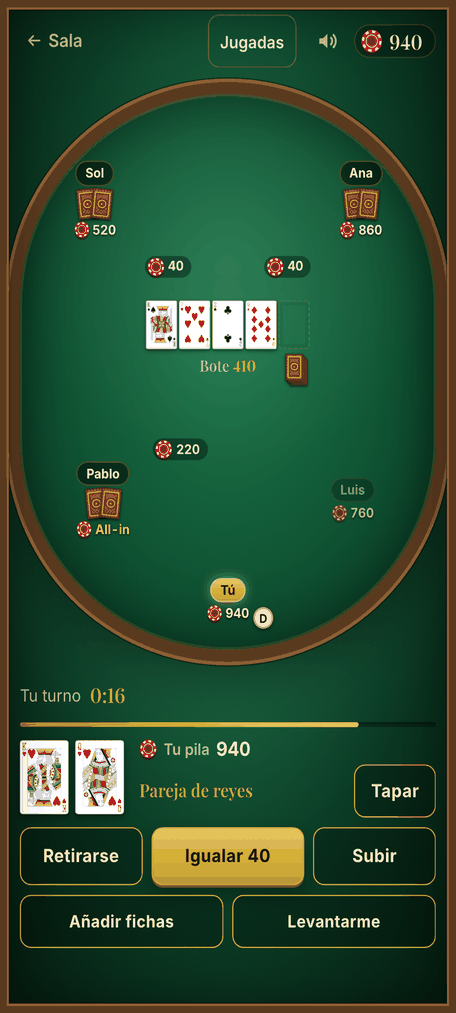
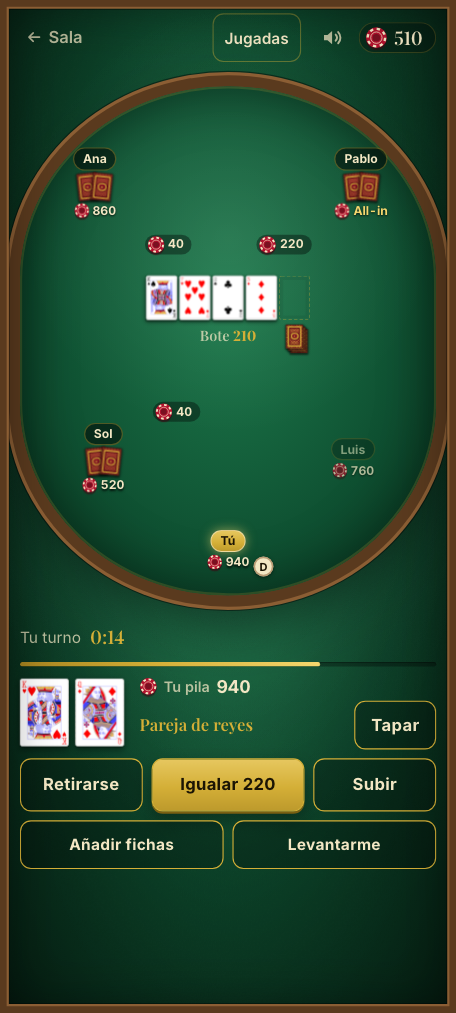
docs: las capturas y los documentos del póker, al día
Las capturas de la mesa de póker enseñaban una vista imposible (Pablo all-in con
220 y el botón «Igualar 40»): se rehacen con una mesa coherente, igual que las de
la sala, que ahora enseñan las tres mesas. El spec recoge el límite de 10
sesiones por hora, `demasiadas_sesiones` y el coste medido (unas 25 filas por
mano, unas 3.700 por noche); CLAUDE.md enlaza el spec y el plan; el README
corrige el alt de la sala, cuándo te levantas solo y cita el límite de sesiones;
ESTADO.md anota la decisión y deja la rama en «revisión final hecha; pendiente
de fusionar».

diff --git a/README.md b/README.md
@@ -5,7 +5,7 @@ Una web para jugar a las cartas con amigos: **Blackjack**, **póker** (Texas Hol
 > **Demo: pendiente de desplegar**
 
 <p align="center">
-  <img src="docs/capturas/sala-movil.png" alt="La sala de una partida en el móvil: quién hay, las dos mesas y el ranking de esta noche" width="19%">
+  <img src="docs/capturas/sala-movil.png" alt="La sala de una partida en el móvil: quién hay, las tres mesas y el ranking de esta noche" width="19%">
   <img src="docs/capturas/blackjack-movil.png" alt="Mesa de blackjack en el móvil: tus dos manos, la primera activa, con los botones Dividir y Rendirse" width="19%">
   <img src="docs/capturas/carrera-movil.png" alt="Mesa de la carrera de caballos en el móvil, a mitad de carrera, con los seis tramos de la pista" width="19%">
   <img src="docs/capturas/carrera-ganador-movil.png" alt="El caballo de corazones gana la carrera y el jugador cobra" width="19%">
@@ -30,7 +30,7 @@ Una web para jugar a las cartas con amigos: **Blackjack**, **póker** (Texas Hol
    - **Tu turno.** Tienes 20 s para *Retirarte*, *Pasar* o *Igualar*, y *Apostar* o *Subir*: un deslizador, − y + para afinar, la cantidad escrita o *All-in*. La subida mínima es lo que subió el anterior o, si nadie ha subido, la ciega grande. Si se acaba el tiempo pasas (o te retiras si no puedes pasar) y cuenta como una falta; con dos seguidas te levantas al acabar la mano.
    - **El final.** Si solo queda uno, gana sin enseñar nada. Si no, se destapan las cartas y vale la mejor jugada de cinco entre tus dos cartas y las cinco de la mesa. Con varios all-in hay un bote por cada nivel, lo que nadie iguala vuelve a quien lo puso y en los empates se reparte a partes iguales. Después de la mano puedes *Enseñar mis cartas* aunque no te toque.
    - **Ayudas.** «Jugadas» abre la tabla de las diez jugadas de mayor a menor con la que tienes resaltada, y «Tapar» da la vuelta a tus cartas solo en tu pantalla (y oculta también el texto de tu jugada).
-   - **Fichas.** Las de la mesa se cobran al sentarte y vuelven a tu saldo al levantarte. Puedes añadir más cuando quieras (entran al empezar la mano siguiente). La mesa te levanta con lo que tengas si acabas una mano sin fichas, si sigues desconectado al acabarla o si llevas 10 minutos sin rivales. Tu posición en los rankings y tus estadísticas se actualizan al levantarte, y cada vez que te sientas cuenta como una partida.
+   - **Fichas.** Las de la mesa se cobran al sentarte y vuelven a tu saldo al levantarte. Puedes añadir más cuando quieras (entran al empezar la mano siguiente). La mesa te levanta con lo que tengas si acabas una mano sin fichas ni nada añadido pendiente, si sigues desconectado al acabarla o si llevas 10 minutos sin rivales. Tu posición en los rankings y tus estadísticas se actualizan al levantarte, y cada vez que te sientas cuenta como una partida.
 7. Si te quedas **sin fichas**, el perfil te ofrece un **rescate** de 200 (cuenta como una quiebra en tus estadísticas). No se puede pedir mientras tengas fichas en una mesa de póker.
 
 ## Características
@@ -112,7 +112,7 @@ flowchart TB
 - **El servidor manda, y cada jugador recibe su propia vista.** Las mesas guardan el estado verdadero y lo proyectan para cada conexión con `vista(estado, jugador)`: la baraja, la carta tapada de la banca y las cartas de cada jugador de póker (hasta que las enseña) no salen nunca del servidor. El cliente solo envía intenciones (`apostar`, `pedir`, `plantarse`, `igualar`, `subir`…) y nunca decide un resultado. Además de la vista, cada mensaje trae los **eventos** ocurridos (`carta_repartida`, `caballo_avanza`, `pago`…; en el póker, `carta_repartida` no lleva la carta, porque el evento es el mismo para todos) para que la pantalla los anime en orden y luego se asiente en la vista.
 - **Reglas puras y compartidas.** Blackjack, carrera y póker son funciones `(estado, acción) → estado` en `src/shared/juegos`, sin red, sin reloj y sin azar propio: el tiempo y el generador entran como parámetros (el barajado usa siempre `crypto.getRandomValues`). Se prueban con Vitest en milisegundos y una clase base, `Mesa`, las conecta con PartyServer. Añadir un juego es escribir un archivo de reglas, una clase pequeña y su pantalla.
 - **Fichas en dos fases e idempotentes.** Antes de cobrar una apuesta la mesa guarda su intención; luego pide el cobro a `Jugadores` con una clave de idempotencia, y la intención se borra en la misma escritura que guarda la jugada. Un cobro que queda a medias (la instancia cayó, `Jugadores` no contestó) se anula con su clave, y cada ronda se liquida una sola vez por su identificador, con una fila por jugador. Los cobros extra del blackjack (segunda casilla, doblar, dividir y seguro) siguen ese mismo camino. En el póker la ronda del libro es la **sesión** de cada vez que te sientas: sentarte y añadir fichas son cobros a cuenta de ella; las manos mueven fichas solo dentro de la mesa, sin tocar `Jugadores`, y al levantarte la sesión se liquida con una fila (lo comprado frente a lo que te queda). Mientras estás sentado tu cobro sigue pendiente, así que el rescate responde «apuestas pendientes» y nadie puede sentarse con todo y pedir 200 gratis. Resultado: las fichas siempre cuadran, aunque las alarmas lleguen tarde o los mensajes se repitan.
-- **Pensada para los límites del plan gratuito.** Durable Objects con SQLite, WebSockets con hibernación y temporizadores con **alarmas** del objeto (nada de `setInterval`), de modo que una mesa vacía no consume. Cada cambio de una mesa es una sola escritura, la alarma solo se reprograma si cambia su hora y la sala solo se entera de lo que enseña. En el póker una mano son unas 25 filas escritas (una por jugada más su alarma de turno), sentarse y levantarse se reparten entre las manos y una mesa con un solo jugador solo programa la alarma de sus 10 minutos de espera. La carrera se sortea entera al cerrarse las apuestas: sus pasos los anuncia un temporizador en memoria, sin escribir nada, y la única alarma es la de la meta. En el blackjack, la banca juega al cerrarse las decisiones y la ronda se liquida en esa misma escritura: lo que se ve después (la banca, el resultado y la ronda siguiente) también sale de la memoria. La sala guarda los resúmenes de las mesas solo en memoria y solo escribe cuando cambia el ranking. Las fichas se leen de una sola fila, y el perfil y los rankings leen una fila por jugador, no el historial. Una mesa sin apuestas deja de programar alarmas tras tres ventanas, la sala se cierra a los 30 minutos sin conexiones, cada conexión tiene un tope de 20 mensajes por segundo (más de 60 y se cierra con el código 4008), tras un `sin_fichas` las jugadas de pago de ese jugador se rechazan 2 s sin escribir nada, el registro admite 3 perfiles cada 10 minutos por IP (60 por hora en total) y cada jugador crea como mucho 5 partidas por hora. Si una mesa no puede guardar una jugada, se lo dice al jugador en vez de quedarse congelada, y si el fallo se repite pasa a «La Timba está descansando, vuelve mañana».
+- **Pensada para los límites del plan gratuito.** Durable Objects con SQLite, WebSockets con hibernación y temporizadores con **alarmas** del objeto (nada de `setInterval`), de modo que una mesa vacía no consume. Cada cambio de una mesa es una sola escritura, la alarma solo se reprograma si cambia su hora y la sala solo se entera de lo que enseña. En el póker una mano son unas 25 filas escritas (una por jugada más su alarma de turno), sentarse y levantarse se reparten entre las manos y una mesa con un solo jugador solo programa la alarma de sus 10 minutos de espera. La carrera se sortea entera al cerrarse las apuestas: sus pasos los anuncia un temporizador en memoria, sin escribir nada, y la única alarma es la de la meta. En el blackjack, la banca juega al cerrarse las decisiones y la ronda se liquida en esa misma escritura: lo que se ve después (la banca, el resultado y la ronda siguiente) también sale de la memoria. La sala guarda los resúmenes de las mesas solo en memoria y solo escribe cuando cambia el ranking. Las fichas se leen de una sola fila, y el perfil y los rankings leen una fila por jugador, no el historial. Una mesa sin apuestas deja de programar alarmas tras tres ventanas, la sala se cierra a los 30 minutos sin conexiones, cada conexión tiene un tope de 20 mensajes por segundo (más de 60 y se cierra con el código 4008), tras un `sin_fichas` las jugadas de pago de ese jugador se rechazan 2 s sin escribir nada, el registro admite 3 perfiles cada 10 minutos por IP (60 por hora en total) y cada jugador crea como mucho 5 partidas por hora y se sienta como mucho 10 veces por hora en la mesa de póker (sentarse y levantarse en bucle no cuesta fichas, pero sí filas de la cuota diaria). Si una mesa no puede guardar una jugada, se lo dice al jugador en vez de quedarse congelada, y si el fallo se repite pasa a «La Timba está descansando, vuelve mañana».
 - **PBKDF2 con 10.000 iteraciones.** El PIN se guarda con PBKDF2-SHA256 y sal de 16 bytes. Con 100.000 iteraciones una sola invocación supera los 10 ms de CPU del plan gratuito (error 1102), así que se usan 10.000 y se compensa por otro lado: 5 fallos bloquean el apodo 15 minutos. La sesión es un token HMAC-SHA256 firmado con `TOKEN_SECRET` que caduca a los 30 días.
 - **Fluidez medida.** Los movimientos solo usan `transform` y `opacity`. Se perfilaron carreras simuladas completas con la CPU a un cuarto de velocidad (CDP y `PerformanceObserver`, cada pasada con un servidor recién arrancado): en las últimas 11 no apareció ninguna tarea larga; antes solo hubo alguna suelta (la última, de 77 ms, justo al salir el cartel del ganador), lo que llevó a pedir su tipografía al abrir la mesa y no al ganar. A un sexto de velocidad sí se vieron cuadros de 51–64 ms al llegar el ganador. Los e2e comprueban además que con movimiento reducido las cartas aparecen ya en su sitio y que la mesa no se mueve bajo la mano.
 

diff --git a/docs/ESTADO.md b/docs/ESTADO.md
@@ -5,7 +5,7 @@ Notas para retomar el trabajo en local. Última actualización: 31/10/2026.
 ## Dónde está todo
 
 - **`main`** tiene la v1 (PR #1) y el blackjack completo con la carrera de seis tramos (PR #2).
-- **`feat/poker`** tiene la mesa de póker, hecha a falta de la revisión final de toda la rama. Aún no tiene PR. Spec: `docs/superpowers/specs/2026-10-31-poker-design.md`; plan: `docs/superpowers/plans/2026-10-31-poker.md`.
+- **`feat/poker`** tiene la mesa de póker: revisión final hecha; pendiente de fusionar. Aún no tiene PR. Spec: `docs/superpowers/specs/2026-10-31-poker-design.md`; plan: `docs/superpowers/plans/2026-10-31-poker.md`.
 - **Lo siguiente:** el chat de partida (ver «Después de este plan»).
 - **Plan terminado:** `docs/superpowers/plans/2026-10-29-blackjack-completo.md`, con su spec `docs/superpowers/specs/2026-10-29-blackjack-completo-design.md`.
 
@@ -39,7 +39,7 @@ Plan del póker (`feat/poker`):
 | 9 | Pantalla: tabla de jugadas | hecha y revisada |
 | 10 | Pantalla: guion, animaciones y sonido | hecha y revisada |
 | 11 | Mano de verdad, documentación y capturas | hecha |
-| — | Revisión final de toda la rama | pendiente |
+| — | Revisión final de toda la rama | hecha |
 | — | PR a `main` | pendiente |
 
 ## Datos para seguir
@@ -84,7 +84,10 @@ Cada una lleva lo que costaría si me equivoqué.
 - **La sesión es la ronda del libro** (`${codigo}:poker:${sesion}`) y el rescate se bloquea con `apuestas_pendientes` mientras estás sentado. Cada sesión cuenta como una partida.
 - **La mano real destapó:** nada. El e2e de verdad (dos navegadores, una mano a igualar y pasar hasta el showdown y levantarse) pasó a la primera en los dos proyectos.
 - **El e2e de verdad lee las fichas del servidor** (`GET /api/fichas`), no con `fichasDeApi`, que es una maqueta de la API para las mesas simuladas.
-- **La tabla de coste del spec §4.4 (28 filas por mano) quedó vieja:** lo medido son 24,8. El spec no se tocó.
+- **Límite de 10 sesiones por hora y jugador** (`POKER.SESIONES_POR_HORA`, error `demasiadas_sesiones`), añadido en la revisión final. Sentarse y levantarse en bucle no cuesta fichas, pero cada ciclo son unas 13 filas escritas y un script podría agotar las 100.000 diarias y dejar toda La Timba «descansando». Los instantes de las sesiones van en el estado de la mesa, en la misma escritura de `sentarse`, así que no cuestan ninguna fila extra. *Si está mal: 10 puede quedarse corto para una noche de mucho entrar y salir; es un número en `POKER`.*
+- **La mesa de póker ya no pide `/api/fichas` en cada mano:** el saldo no cambia entre manos y los efectos de sentarse, levantarse y añadir ya lo ponen al día. El spec §4.4 se corrigió a 25 filas por mano y 3.700 por noche.
+- **Capturas rehechas** (`poker-*` y `sala-*`): la del póker enseñaba a Pablo all-in con 220 y el botón «Igualar 40»; ahora `opciones.igualar`, las apuestas delante de cada asiento y el bote cuadran. La sala enseña las tres mesas. Mismas medidas que antes y menos de 400 KB.
+- **El texto del rescate** dice ahora «Tienes fichas en juego: espera a que acabe tu ronda o levántate de la mesa de póker», porque sentado en el póker esa ronda no acaba hasta levantarte.
 
 ## Detalles menores del póker que la revisión deja para después
 
@@ -182,7 +185,7 @@ La Playwright del proyecto (1.64.1) pide chromium 1248, y allí solo hay la 1243
 
 ## Después de este plan
 
-1. **Póker** (hecho en `feat/poker`, a falta de la revisión final y del PR): Texas Hold'em sin límite con todas sus reglas, tabla de jugadas y botón para tapar o enseñar tus cartas. Ver su spec.
+1. **Póker** (hecho en `feat/poker`, con la revisión final hecha; pendiente de fusionar): Texas Hold'em sin límite con todas sus reglas, tabla de jugadas y botón para tapar o enseñar tus cartas. Ver su spec.
 2. **Chat de partida** (decidido, lo siguiente): un chat por código de partida, visible en la sala y en todas sus mesas, solo para quien tiene el código.
    - Va por el socket de la sala, que ya está abierto en todas las pantallas.
    - Guarda los últimos 30 mensajes en una sola fila de `Partida`, con una escritura por mensaje. En memoria no bastaría: `Partida` hiberna y lo perdería. Con unos 300 mensajes por noche, sube unos 0,3 puntos las filas escritas.

diff --git a/docs/superpowers/specs/2026-10-31-poker-design.md b/docs/superpowers/specs/2026-10-31-poker-design.md
@@ -38,6 +38,7 @@ export const POKER = {
   CALLE_MS: 900,
   SOLO_MS: 600_000,
   FALTAS_MAX: 2,
+  SESIONES_POR_HORA: 10,
 } as const;
 ```
 
@@ -45,6 +46,7 @@ export const POKER = {
 
 - **Mirar:** entrar en la mesa no te sienta. Ves la partida sin cartas ni fichas en juego, sin límite de personas.
 - **Sentarte:** eliges con cuántas fichas, desde `COMPRA_MIN` hasta todas las tuyas. No hay máximo. Ocupas el asiento libre de número más bajo. Si no queda ninguno, el error es `sin_asiento`.
+- **Límite de sesiones:** cada jugador puede sentarse como mucho `SESIONES_POR_HORA` (10) veces en una hora, contadas desde cada sentada. La 11.ª da `demasiadas_sesiones` antes de cobrar nada. Sentarse y levantarse en bucle no cuesta fichas, pero cada ciclo son unas 13 filas escritas, y un script podría agotar las 100.000 filas diarias y dejar toda La Timba «descansando». El estado de la mesa guarda los instantes de las últimas sesiones por jugador, podados a la última hora, en la misma escritura de `sentarse`.
 - **Entrar a mitad de mano:** esperas a la siguiente, sin poner ninguna ciega de más.
 - **Añadir fichas:** se puede en cualquier momento. Si estás en una mano, las fichas añadidas entran en tu montón al empezar la siguiente: nunca cuentan en la mano en curso.
 - **Levantarte:**
@@ -168,7 +170,7 @@ export interface OpcionesPoker {
 
 - `sentar` no ocupa asiento: solo devuelve la conexión a quien ya estaba sentado.
 - `salir` es lo que manda `useSalirDeMesa`: hace lo mismo que `levantarse`.
-- `CodigoError` añade `sin_asiento`, con el texto «La mesa está completa». Una subida que no cumple las reglas responde `apuesta_invalida`.
+- `CodigoError` añade `sin_asiento`, con el texto «La mesa está completa», y `demasiadas_sesiones`, con el texto «Has entrado y salido demasiadas veces. Espera un rato para volver a sentarte». Una subida que no cumple las reglas responde `apuesta_invalida`.
 
 ### 4.3 Vista e información oculta
 
@@ -184,8 +186,8 @@ Eventos: `mano_empezada`, `ciega`, `carta_repartida`, `accion`, `calle_abierta`,
 
 ### 4.4 Coste
 
-- Cada jugada es una escritura de la mesa más su alarma de turno, que Cloudflare factura como otra fila: unas 28 filas por mano con 4 jugadores.
-- Unas 150 manos en 3 horas son unas 4.200 filas. Quien juega al póker deja de jugar en otra mesa, que gasta más: 11.300 filas la carrera y 15.900 el blackjack.
+- Cada jugada es una escritura de la mesa más su alarma de turno, que Cloudflare factura como otra fila: unas 25 filas por mano con 4 jugadores (medidas: 24,8).
+- Unas 150 manos en 3 horas son unas 3.700 filas. Quien juega al póker deja de jugar en otra mesa, que gasta más: 11.300 filas la carrera y 15.900 el blackjack.
 - `test/server/presupuesto.test.ts` mide una mano con all-in y enseñar, añade `poker` a `TECHO` y comprueba una noche con blackjack y póker (330 rondas y 150 manos). El objetivo sigue en el 30 %.
 
 ## 5. Pantalla

diff --git a/CLAUDE.md b/CLAUDE.md
@@ -13,6 +13,7 @@ La Timba es una web gratuita para jugar a las cartas con amigos. Alguien crea un
   - Plan original: `docs/superpowers/plans/2026-10-17-la-timba.md`
   - Spec del blackjack completo y de la carrera de seis tramos (amplía el anterior y, si chocan, manda): `docs/superpowers/specs/2026-10-29-blackjack-completo-design.md`, con su plan en `docs/superpowers/plans/2026-10-29-blackjack-completo.md`
   - Estado del desarrollo (qué queda y qué viene después): `docs/ESTADO.md`
+  - Spec del póker (amplía los anteriores y, si chocan, manda; incluye el límite de 10 sesiones por hora, `POKER.SESIONES_POR_HORA`, que protege la cuota diaria): `docs/superpowers/specs/2026-10-31-poker-design.md`, con su plan en `docs/superpowers/plans/2026-10-31-poker.md`
   - README de portfolio: `README.md`
 
 ## Comandos
